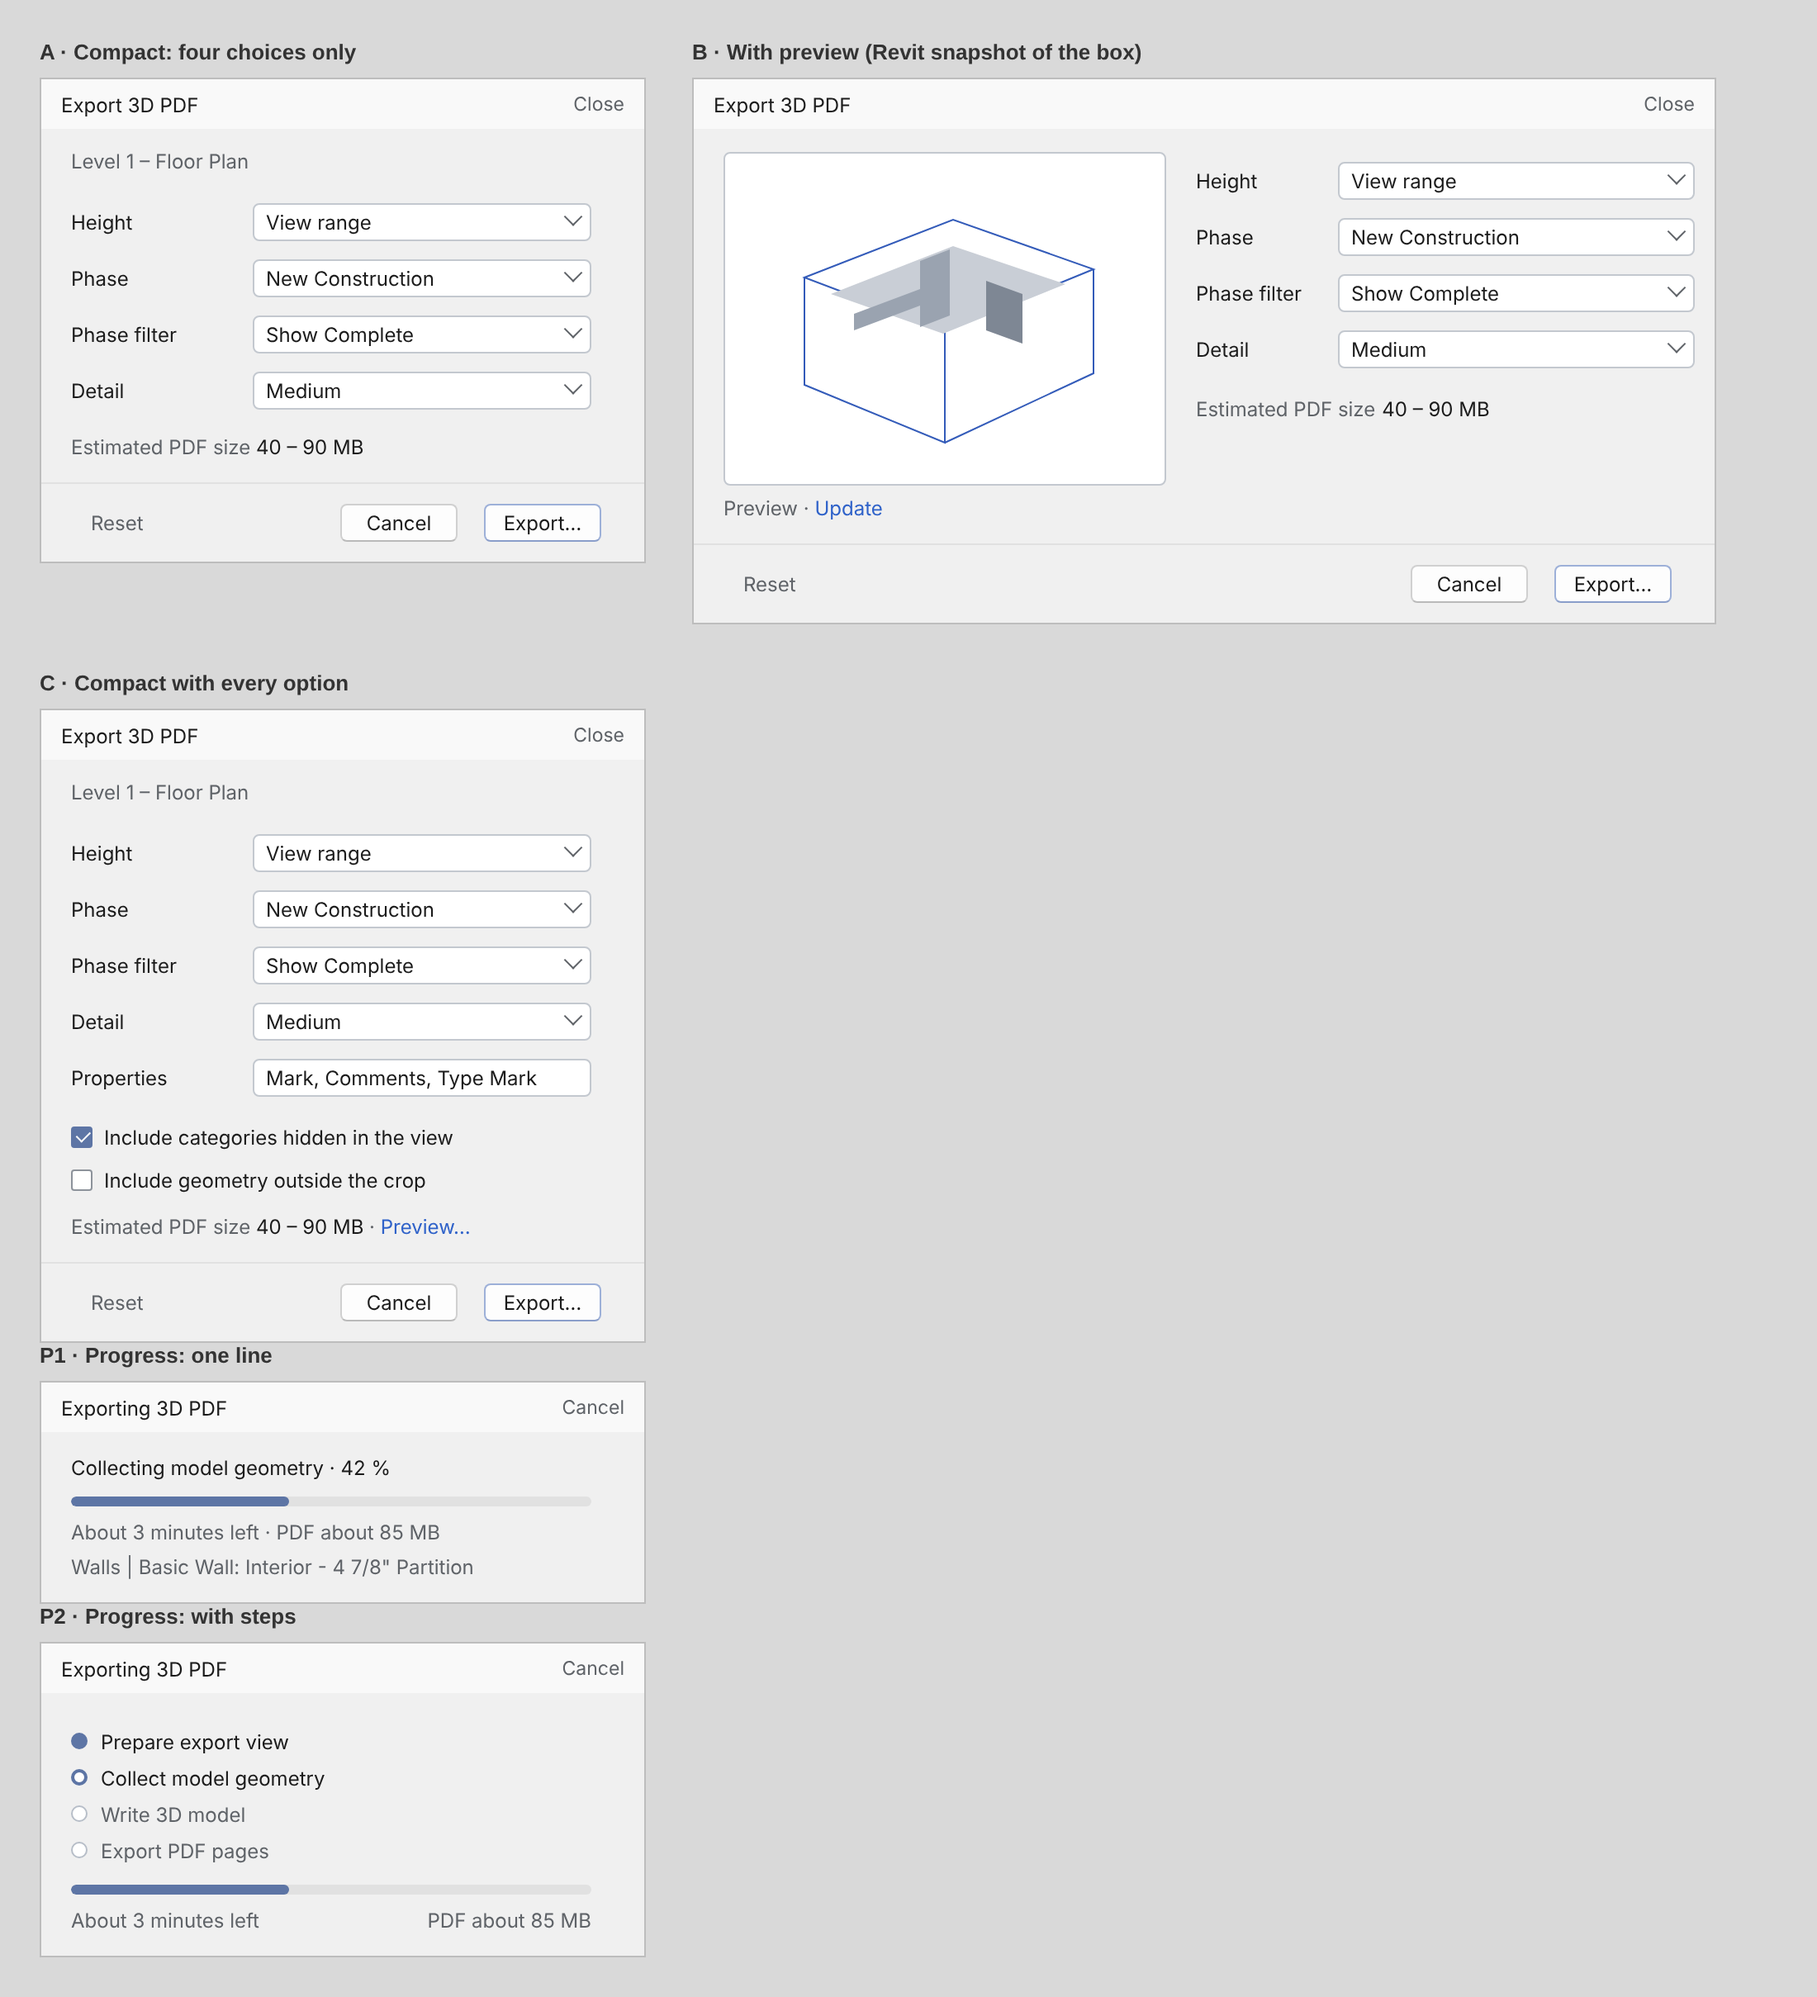
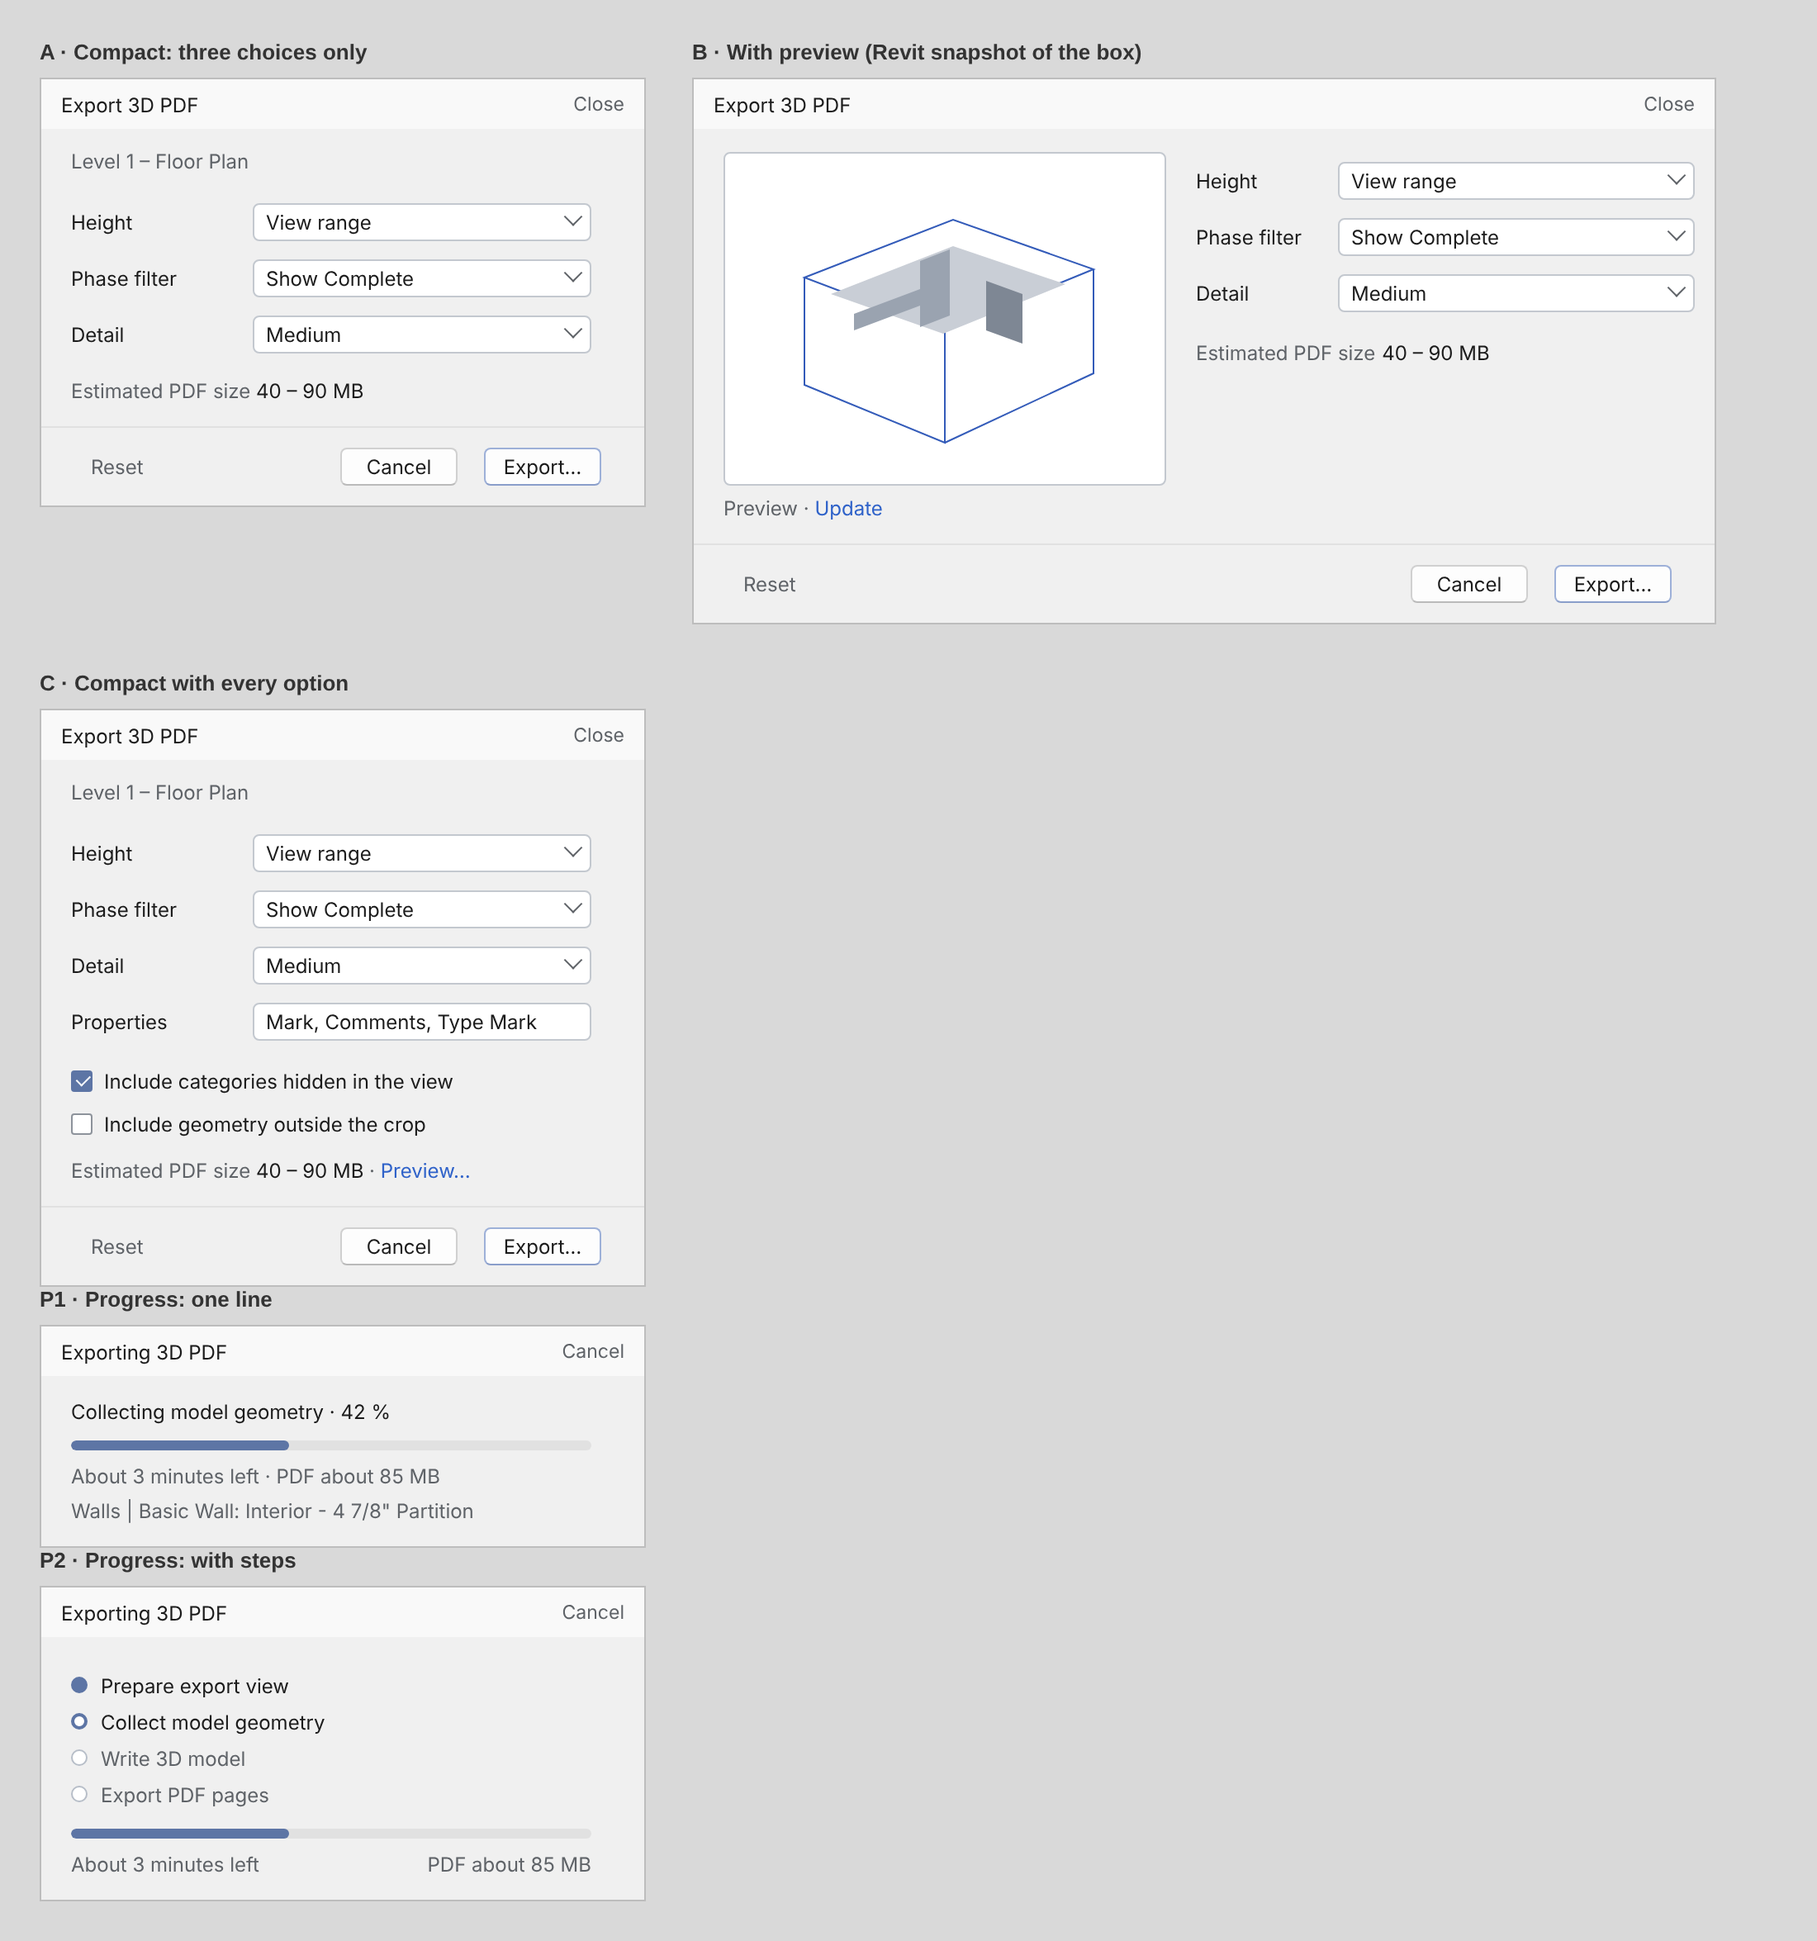
Export options: phase filter only; the phase is always the plan view's own
View templates control the phase filter but not the phase, and the
exported view already has the right phase; offering it only confused.

Claude-Session: https://claude.ai/code/session_01N3DjppHZ7MgzVDBG7VuKSR

diff --git a/docs/mockups/export-dialog-options.html b/docs/mockups/export-dialog-options.html
@@ -24,13 +24,12 @@
 .dot{width:10px;height:10px;border-radius:50%;border:1px solid #b7bec8;background:#fff}.done .dot{background:#5d75a5;border-color:#5d75a5}.now .dot{border:2px solid #5d75a5}
 </style></head><body>
 
-<div><div class="cap">A · Compact: four choices only</div><div class="win" id="a" style="width:367px">
+<div><div class="cap">A · Compact: three choices only</div><div class="win" id="a" style="width:367px">
  <div class="titlebar"><span>Export 3D PDF</span><span class="close">Close</span></div>
  <div class="content">
   <div class="sub">Level 1 – Floor Plan</div>
   <div class="grid">
    <label>Height</label><div class="field"><span>View range</span><i class="chev"></i></div>
-   <label>Phase</label><div class="field"><span>New Construction</span><i class="chev"></i></div>
    <label>Phase filter</label><div class="field"><span>Show Complete</span><i class="chev"></i></div>
    <label>Detail</label><div class="field"><span>Medium</span><i class="chev"></i></div>
   </div>
@@ -47,7 +46,6 @@
    </div><div style="margin-top:6px;color:#5f6368">Preview · <span style="color:#2f62c9">Update</span></div></div>
   <div class="grid" style="grid-template-columns:86px 1fr;align-content:start">
    <label>Height</label><div class="field" style="margin-right:0"><span>View range</span><i class="chev"></i></div>
-   <label>Phase</label><div class="field" style="margin-right:0"><span>New Construction</span><i class="chev"></i></div>
    <label>Phase filter</label><div class="field" style="margin-right:0"><span>Show Complete</span><i class="chev"></i></div>
    <label>Detail</label><div class="field" style="margin-right:0"><span>Medium</span><i class="chev"></i></div>
    <label style="grid-column:1/3;height:auto;margin-top:12px;color:#5f6368">Estimated PDF size <b style="font-weight:400;color:#1b1b1b;margin-left:4px">40 – 90 MB</b></label>
@@ -62,7 +60,6 @@
   <div class="sub">Level 1 – Floor Plan</div>
   <div class="grid">
    <label>Height</label><div class="field"><span>View range</span><i class="chev"></i></div>
-   <label>Phase</label><div class="field"><span>New Construction</span><i class="chev"></i></div>
    <label>Phase filter</label><div class="field"><span>Show Complete</span><i class="chev"></i></div>
    <label>Detail</label><div class="field"><span>Medium</span><i class="chev"></i></div>
    <label>Properties</label><div class="field"><span>Mark, Comments, Type Mark</span></div>

diff --git a/offline3d-exporter/src/RevitExporter/ExportOptionsDialog.cs b/offline3d-exporter/src/RevitExporter/ExportOptionsDialog.cs
@@ -52,7 +52,6 @@ internal sealed class ExportOptionsDialog : Form
     private readonly CheckBox categories = new CheckBox { Text = "Include categories hidden in the view", Checked = true, AutoSize = true };
     private readonly TextBox parameterNames = new TextBox { Text = "Mark,Comments,Type Mark" };
     private readonly ComboBox detail = new ComboBox { DropDownStyle = ComboBoxStyle.DropDownList };
-    private readonly ComboBox phase = new ComboBox { DropDownStyle = ComboBoxStyle.DropDownList };
     private readonly ComboBox phaseFilter = new ComboBox { DropDownStyle = ComboBoxStyle.DropDownList };
     private readonly Label detailHint = new Label();
     private readonly CheckBox skipTiny = new CheckBox { Text = "Skip parts smaller than", AutoSize = true };
@@ -98,17 +97,17 @@ internal sealed class ExportOptionsDialog : Form
     public int TessellationLevel => new[] { 0, 4, 8, 12, 15 }[(int)DetailPreset];
     /// <summary>Very low always skips parts under 2" (checked before Revit tessellates them).</summary>
     public double MinimumPartFeet => Math.Max(skipTiny.Checked ? (double)tinySize.Value / 30.48 : 0, DetailPreset == ExportDetail.VeryLow ? 2.0 / 12 : 0);
-    public Autodesk.Revit.DB.ElementId Phase => (phase.SelectedItem as NamedChoice)?.Id ?? Autodesk.Revit.DB.ElementId.InvalidElementId;
+    /// <summary>Always the plan view's own phase (InvalidElementId keeps it); only the phase filter is offered.</summary>
+    public Autodesk.Revit.DB.ElementId Phase => Autodesk.Revit.DB.ElementId.InvalidElementId;
     public Autodesk.Revit.DB.ElementId PhaseFilter => (phaseFilter.SelectedItem as NamedChoice)?.Id ?? Autodesk.Revit.DB.ElementId.InvalidElementId;
     public string PhaseFilterName => (phaseFilter.SelectedItem as NamedChoice)?.Name ?? "";
     public string PreviewDiagnostics { get; private set; } = "";
 
     private int S(int px) => (int)Math.Round(px * DeviceDpi / 96.0);
 
-    public ExportOptionsDialog(string viewName, string bottomLabel, string topLabel, int candidateCount, bool planHeight, NamedChoice[] phases, int phaseIndex, NamedChoice[] filters, int filterIndex)
+    public ExportOptionsDialog(string viewName, string bottomLabel, string topLabel, int candidateCount, bool planHeight, NamedChoice[] filters, int filterIndex)
     {
-        phase.Items.AddRange(phases); phaseFilter.Items.AddRange(filters);
-        if (phases.Length > 0) phase.SelectedIndex = Math.Max(0, Math.Min(phases.Length - 1, phaseIndex));
+        phaseFilter.Items.AddRange(filters);
         if (filters.Length > 0) phaseFilter.SelectedIndex = Math.Max(0, Math.Min(filters.Length - 1, filterIndex));
         this.viewName = viewName; this.bottomLabel = bottomLabel; this.topLabel = topLabel; this.candidateCount = Math.Max(0, candidateCount); this.planHeight = planHeight;
         SuspendLayout();
@@ -135,7 +134,6 @@ internal sealed class ExportOptionsDialog : Form
         allUp.CheckedChanged += (_, __) => OptionsChanged();
         allDown.CheckedChanged += (_, __) => OptionsChanged();
         categories.CheckedChanged += (_, __) => OptionsChanged();
-        phase.SelectedIndexChanged += (_, __) => OptionsChanged();
         phaseFilter.SelectedIndexChanged += (_, __) => OptionsChanged();
         detail.SelectedIndexChanged += (_, __) => { UpdateDetailHint(); UpdateEstimate(); };
         skipTiny.CheckedChanged += (_, __) => tinySize.Enabled = skipTiny.Checked;
@@ -217,11 +215,8 @@ internal sealed class ExportOptionsDialog : Form
 
         Add(SectionLabel("Content"));
         categories.Margin = new Padding(0, 0, 0, S(2)); Add(categories);
-        foreach (var (text, box) in new[] { ("Phase", phase), ("Phase filter", phaseFilter) })
-        {
-            Add(new Label { Text = text, AutoSize = true, Anchor = AnchorStyles.Left | AnchorStyles.Right, Margin = new Padding(0, S(4), 0, S(2)) });
-            box.Anchor = AnchorStyles.Left | AnchorStyles.Right; box.Margin = new Padding(0, 0, 0, S(4)); Add(box);
-        }
+        Add(new Label { Text = "Phase filter", AutoSize = true, Anchor = AnchorStyles.Left | AnchorStyles.Right, Margin = new Padding(0, S(4), 0, S(2)) });
+        phaseFilter.Anchor = AnchorStyles.Left | AnchorStyles.Right; phaseFilter.Margin = new Padding(0, 0, 0, S(4)); Add(phaseFilter);
         Add(SmallLabel("\"Show Complete\" leaves out demolished elements (shown red with \"Show All\")."));
         Add(new Label { Text = "Extra properties (comma separated)", AutoSize = true, Anchor = AnchorStyles.Left | AnchorStyles.Right, Margin = new Padding(0, S(2), 0, S(2)) });
         parameterNames.Anchor = AnchorStyles.Left | AnchorStyles.Right; parameterNames.Margin = new Padding(0, 0, 0, S(4)); Add(parameterNames);

diff --git a/offline3d-exporter/src/RevitExporter/ExportCommand.cs b/offline3d-exporter/src/RevitExporter/ExportCommand.cs
@@ -184,20 +184,17 @@ public sealed class ExportCommand : IExternalCommand
 
                     // ---- options (the preview runs inside this call) ----
                     log.Stage("Export options");
-                    // Phase and phase filter: the source view's, or the filter chosen last time.
+                    // Phase filter: the filter chosen last time, else the source view's. The phase is always the view's own.
                     var preferences = new ExportPreferences(ExportPreferences.DefaultPath);
-                    var phases = doc.Phases.Cast<Phase>().Select(p => new NamedChoice { Name = ExportText.Clean(p.Name, 120), Id = p.Id }).ToArray();
                     var filters = new[] { new NamedChoice { Name = "None", Id = ElementId.InvalidElementId } }.Concat(new FilteredElementCollector(doc).OfClass(typeof(PhaseFilter)).Cast<PhaseFilter>().OrderBy(f => f.Name, StringComparer.CurrentCultureIgnoreCase).Select(f => new NamedChoice { Name = ExportText.Clean(f.Name, 120), Id = f.Id })).ToArray();
-                    var viewPhase = target.SourcePlan.get_Parameter(BuiltInParameter.VIEW_PHASE)?.AsElementId() ?? ElementId.InvalidElementId;
                     var viewFilter = target.SourcePlan.get_Parameter(BuiltInParameter.VIEW_PHASE_FILTER)?.AsElementId() ?? ElementId.InvalidElementId;
-                    int phaseIndex = Math.Max(0, Array.FindIndex(phases, p => p.Id == viewPhase));
                     string? rememberedFilter = preferences.Get("phaseFilter");
                     int filterIndex = rememberedFilter != null && Array.FindIndex(filters, f => f.Name == rememberedFilter) is int remembered && remembered >= 0 ? remembered : Math.Max(0, Array.FindIndex(filters, f => f.Id == viewFilter));
-                    using var options = new ExportOptionsDialog(target.SourcePlan.Name, regions[0].BottomLabel, regions[0].TopLabel, approximateCount, regions.All(r => r.Source is ViewPlan), phases, phaseIndex, filters, filterIndex);
+                    using var options = new ExportOptionsDialog(target.SourcePlan.Name, regions[0].BottomLabel, regions[0].TopLabel, approximateCount, regions.All(r => r.Source is ViewPlan), filters, filterIndex);
                     if (options.RunModal(owner, Preview) != OptionsOutcome.Export) { cancelled = true; log.Line("Cancelled in the options dialog"); return Result.Cancelled; }
                     var detail = options.DetailPreset;
                     preferences.Set("phaseFilter", options.PhaseFilterName); preferences.Save();
-                    log.Line("Options: detail " + detail + " (LOD " + options.TessellationLevel + "), phase " + options.Phase + ", phase filter " + ExportText.Clean(options.PhaseFilterName, 120) + ", outside crop " + options.OutsideCrop + ", all up " + options.AllUp + ", all down " + options.AllDown + ", hidden categories included " + options.IncludeAllCategories + ", tiny-part filter " + options.MinimumPartFeet.ToString("0.###", CultureInfo.InvariantCulture) + " ft, properties: " + string.Join(", ", options.ParameterNames));
+                    log.Line("Options: detail " + detail + " (LOD " + options.TessellationLevel + "), phase filter " + ExportText.Clean(options.PhaseFilterName, 120) + ", outside crop " + options.OutsideCrop + ", all up " + options.AllUp + ", all down " + options.AllDown + ", hidden categories included " + options.IncludeAllCategories + ", tiny-part filter " + options.MinimumPartFeet.ToString("0.###", CultureInfo.InvariantCulture) + " ft, properties: " + string.Join(", ", options.ParameterNames));
                     if (options.PreviewDiagnostics.Length > 0) File.AppendAllText(Path.Combine(work, "preview-timings.txt"), options.PreviewDiagnostics + Environment.NewLine);
 
                     string stem = string.Concat(target.FileStem.Select(c => Path.GetInvalidFileNameChars().Contains(c) ? '_' : c));

diff --git a/offline3d-exporter/CHANGES-0.5.4.md b/offline3d-exporter/CHANGES-0.5.4.md
@@ -4,11 +4,11 @@ Built in stages from the feedback on 0.5.3. Version strings still say 0.5.3 unti
 
 ## Stage 2, part 1 (done)
 
-### Phase and phase filter
-- The options have **Phase** and **Phase filter**.
-- Both start from the plan view's settings. The phase filter you pick is remembered for the next export, in `%LOCALAPPDATA%\Offline3DPdfPrototype\export-options.txt`.
+### Phase filter
+- The options have a **Phase filter**. It starts from the plan view's filter, which often comes from its view template. The filter you pick is remembered for the next export, in `%LOCALAPPDATA%\Offline3DPdfPrototype\export-options.txt`.
+- The phase itself is always the plan view's own (Properties › Phasing › Phase). It is not offered, because view templates do not control it and the exported view already has the right one.
 - Pick **Show Complete** to leave out demolished elements. "Show All" makes Revit report them with the red *Phase - Demo* material, which is what appeared in the PDF.
-- The preview uses the same choices.
+- The preview uses the same filter.
 
 ### Very low detail
 - **Very low** replaces Quick. It uses:
